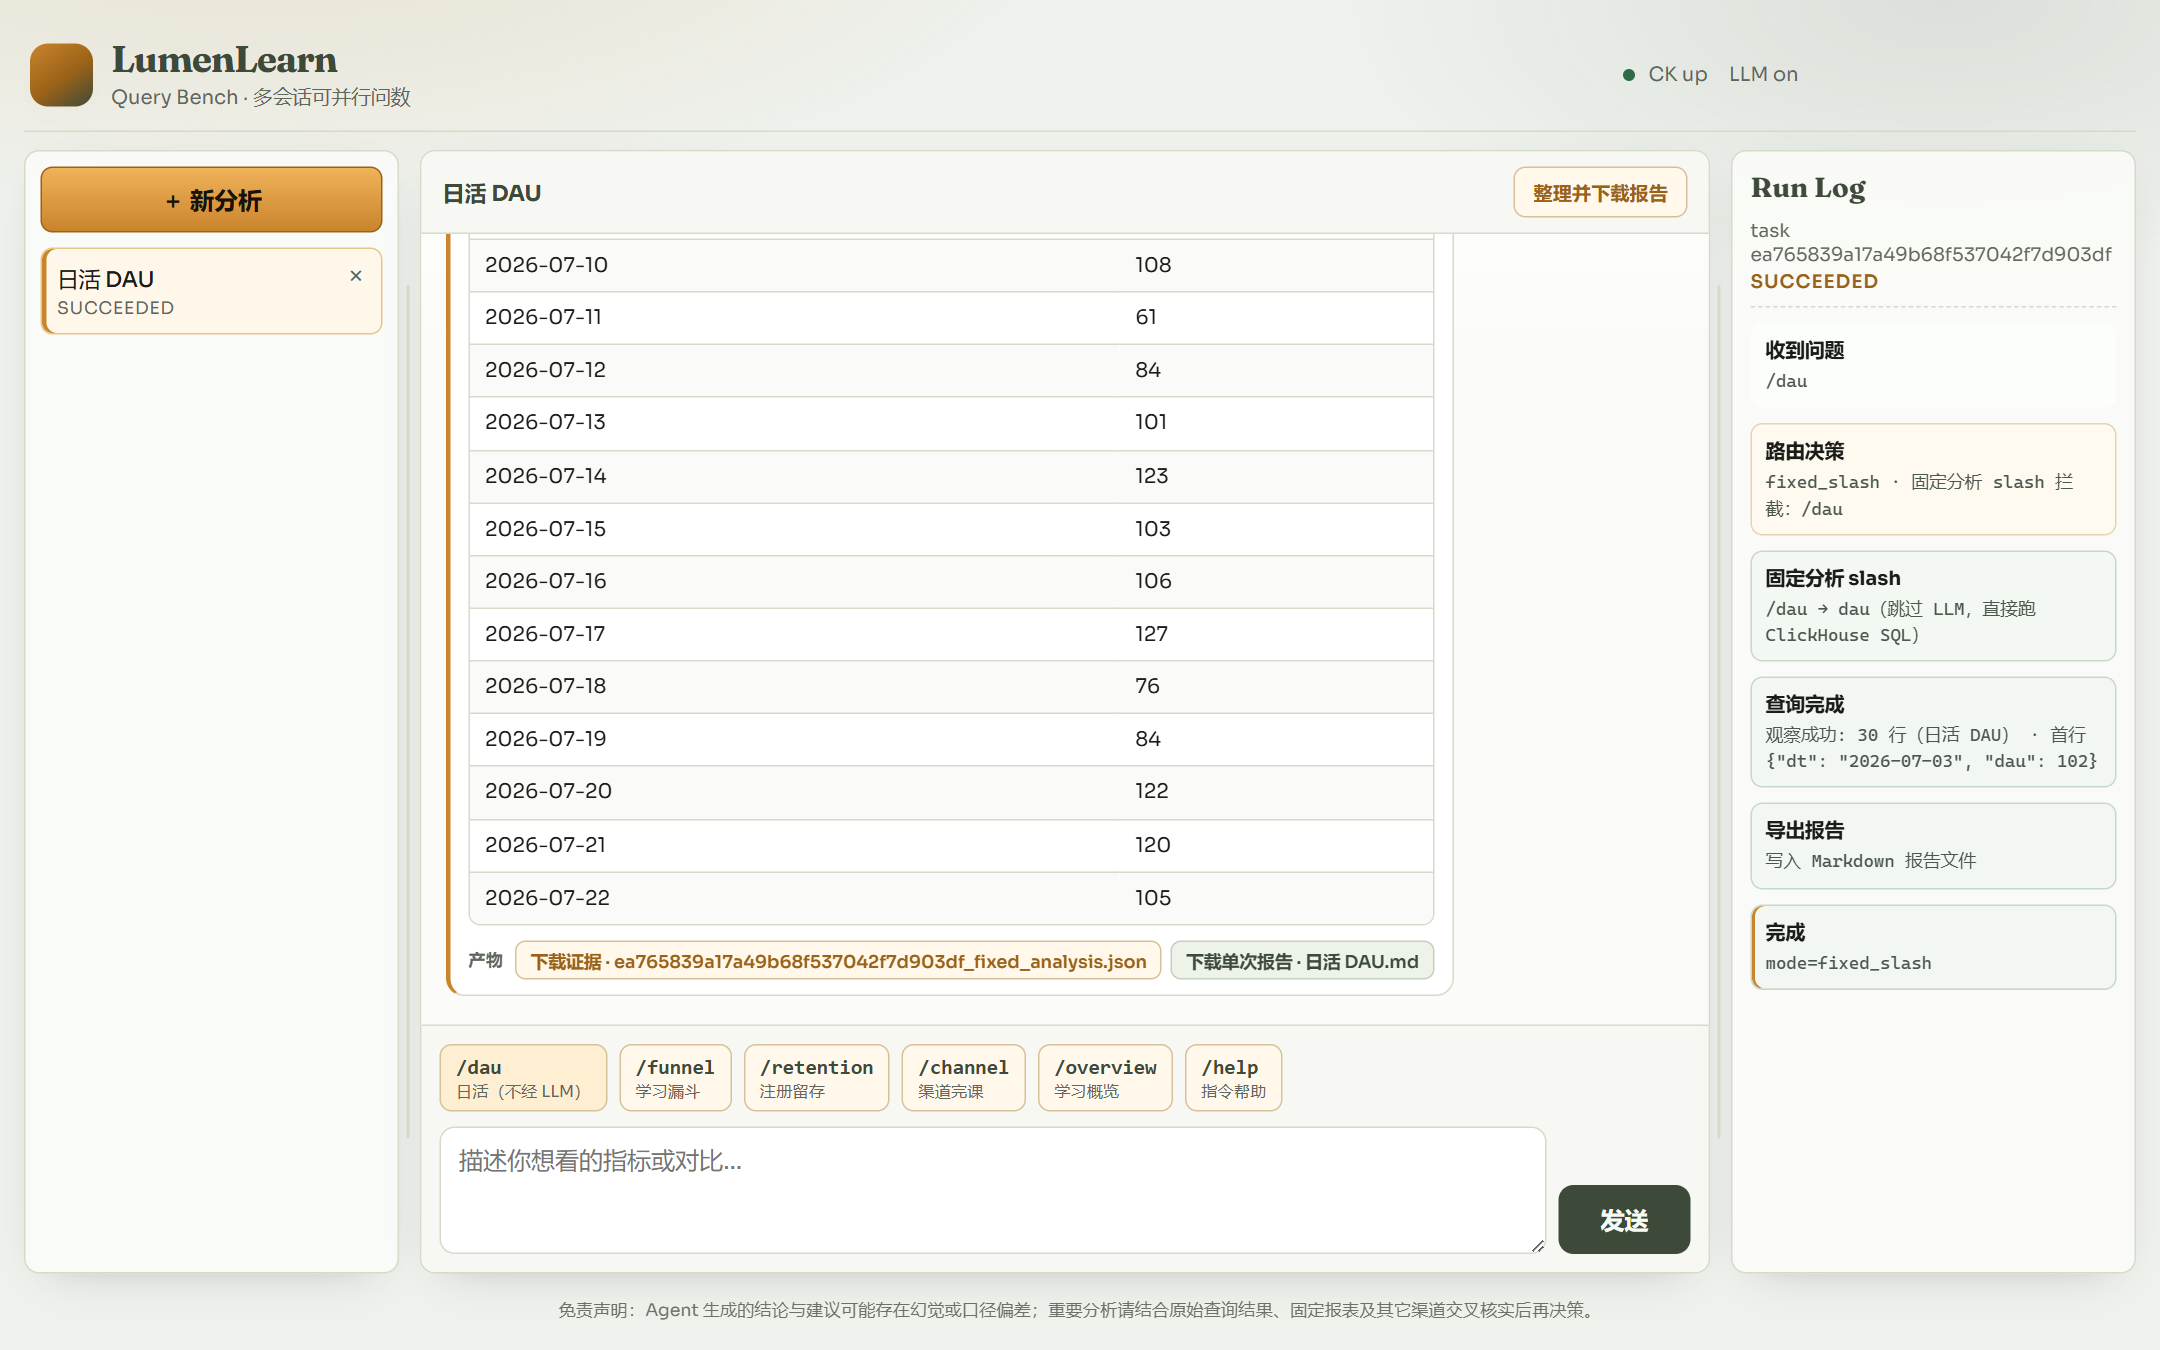
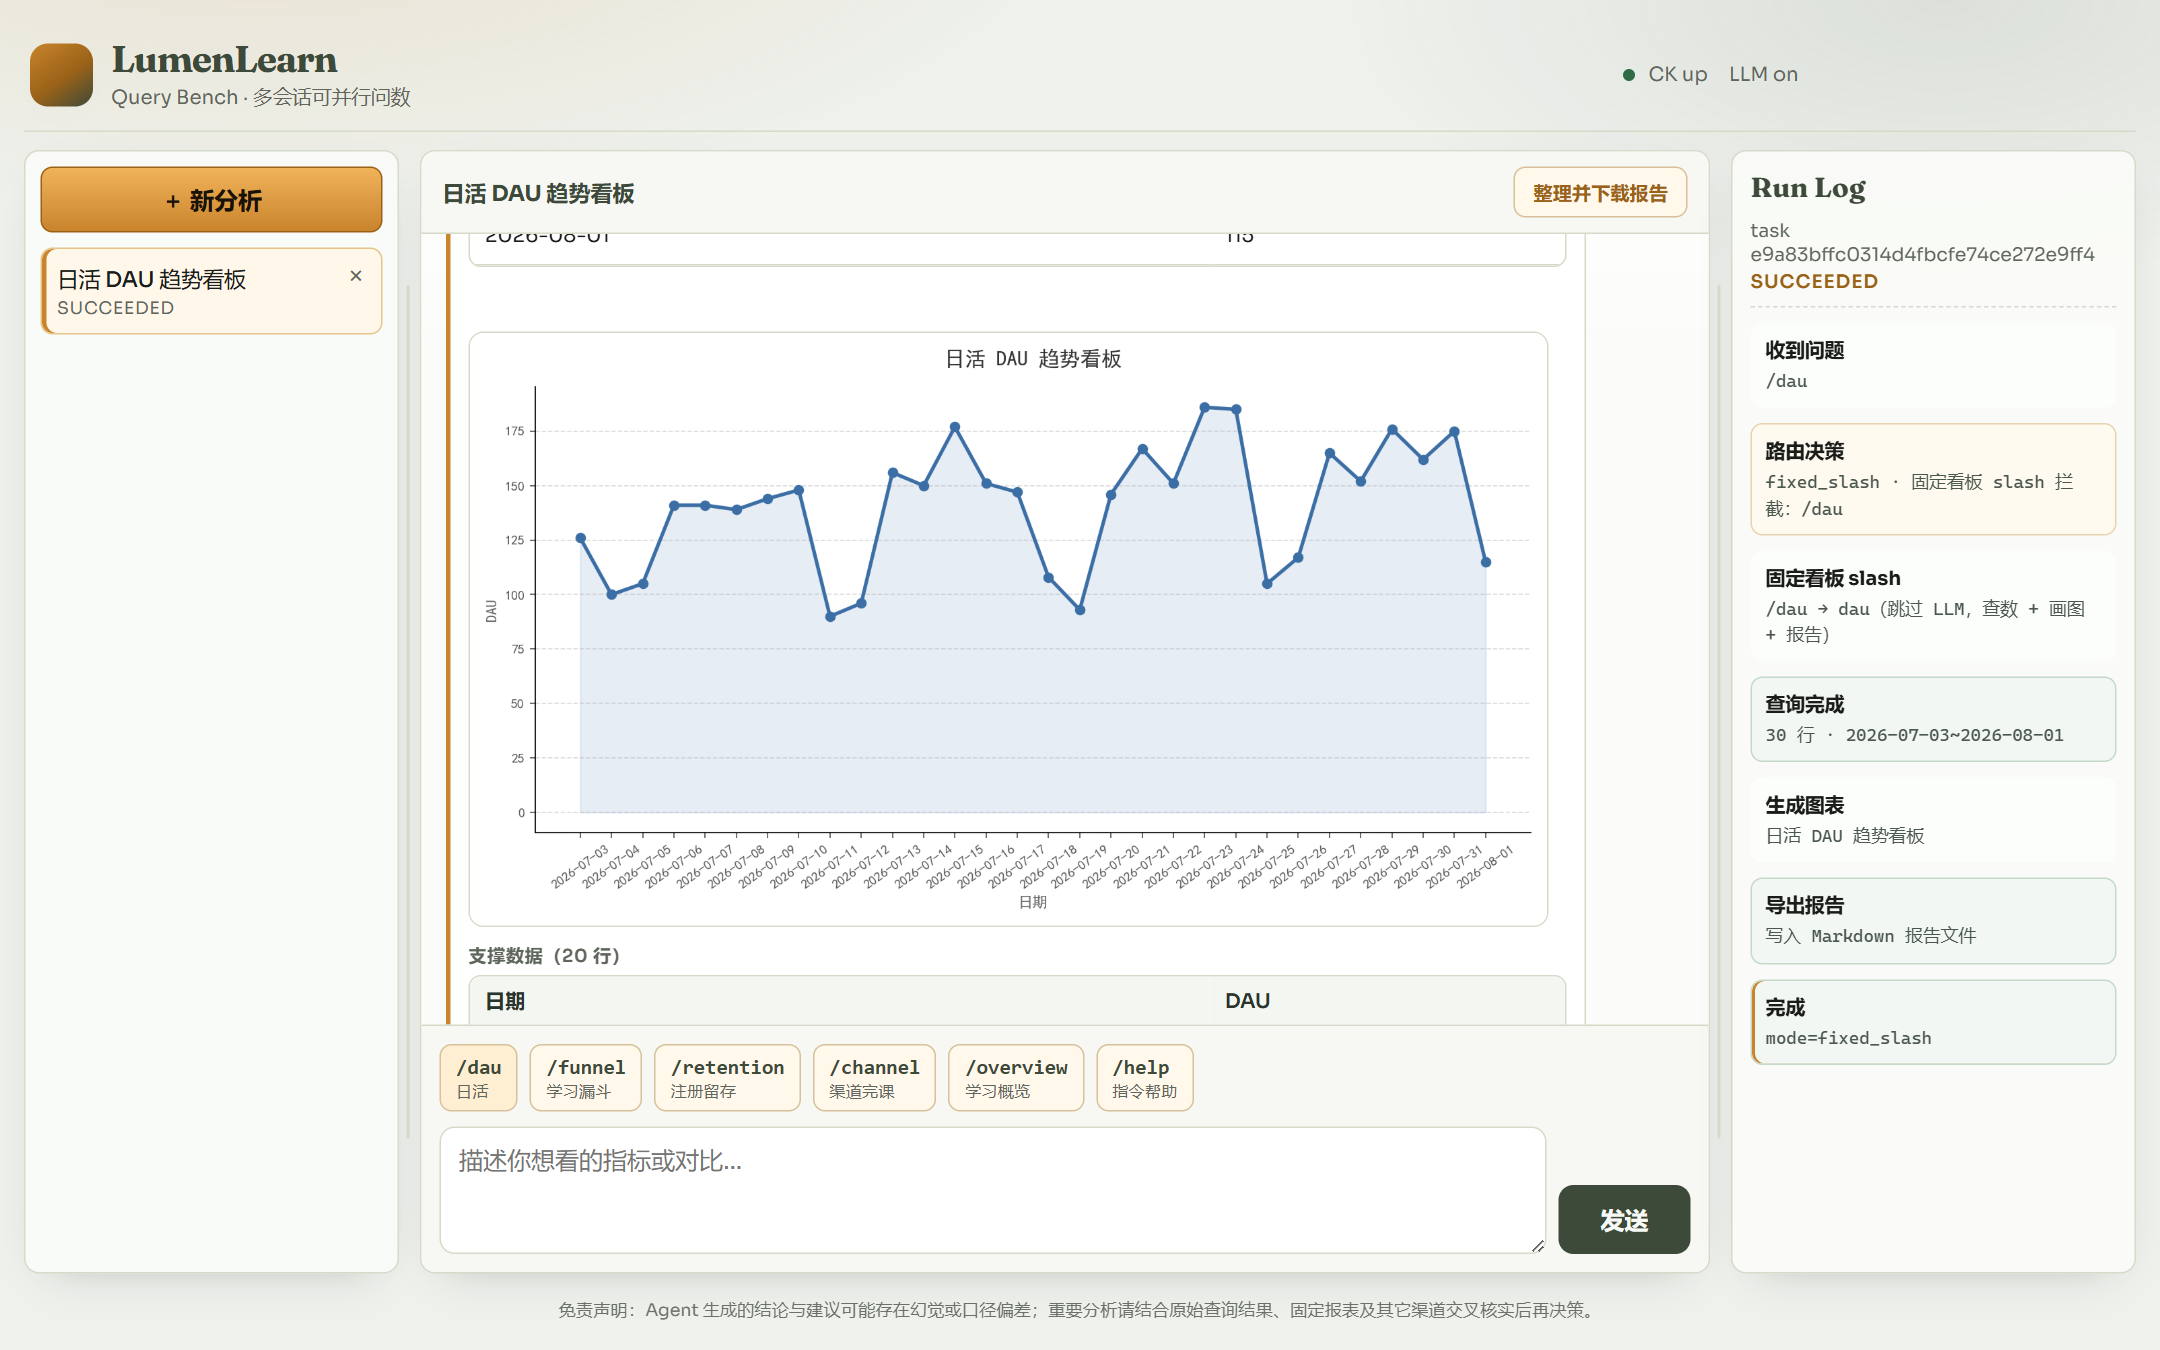
更新截图和提示信息：调整 /dau 指令的提示文本，优化截图逻辑以确保图表渲染后再进行截图，更新相关的 README 截图。

diff --git a/webui/src/components/Composer.vue b/webui/src/components/Composer.vue
@@ -6,7 +6,7 @@ const emit = defineEmits<{ send: [query: string] }>();
 
 const text = ref("");
 const hints = [
-  { label: "/dau", q: "/dau", tip: "日活（不经 LLM）" },
+  { label: "/dau", q: "/dau", tip: "日活" },
   { label: "/funnel", q: "/funnel", tip: "学习漏斗" },
   { label: "/retention", q: "/retention", tip: "注册留存" },
   { label: "/channel", q: "/channel", tip: "渠道完课" },
